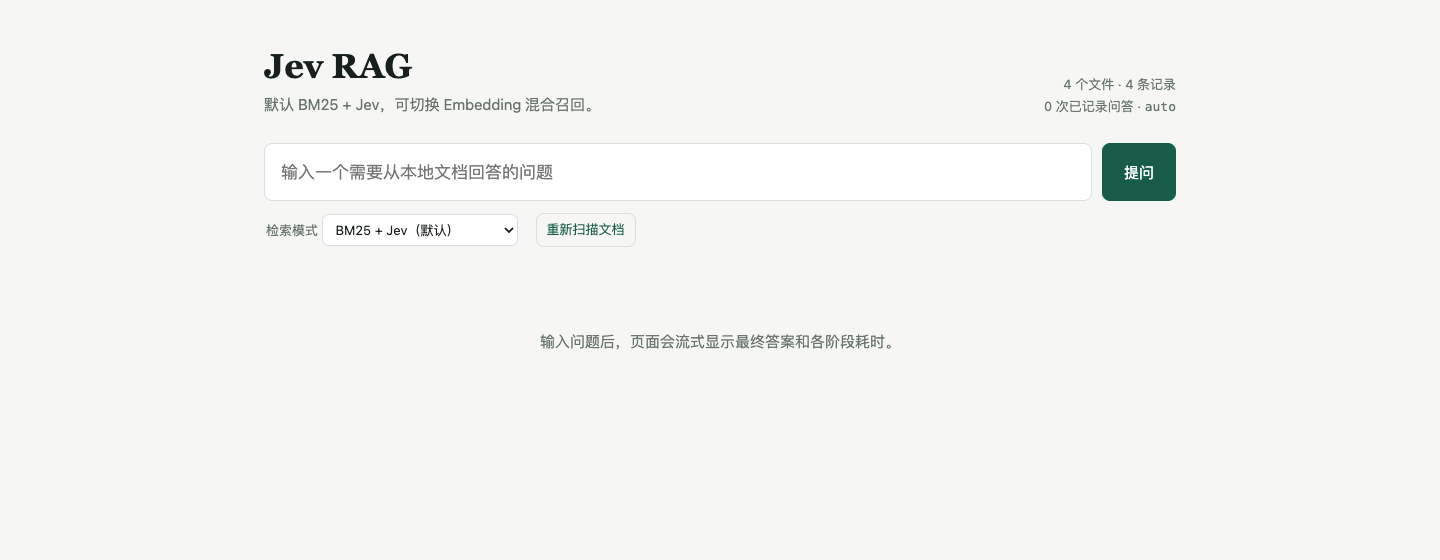
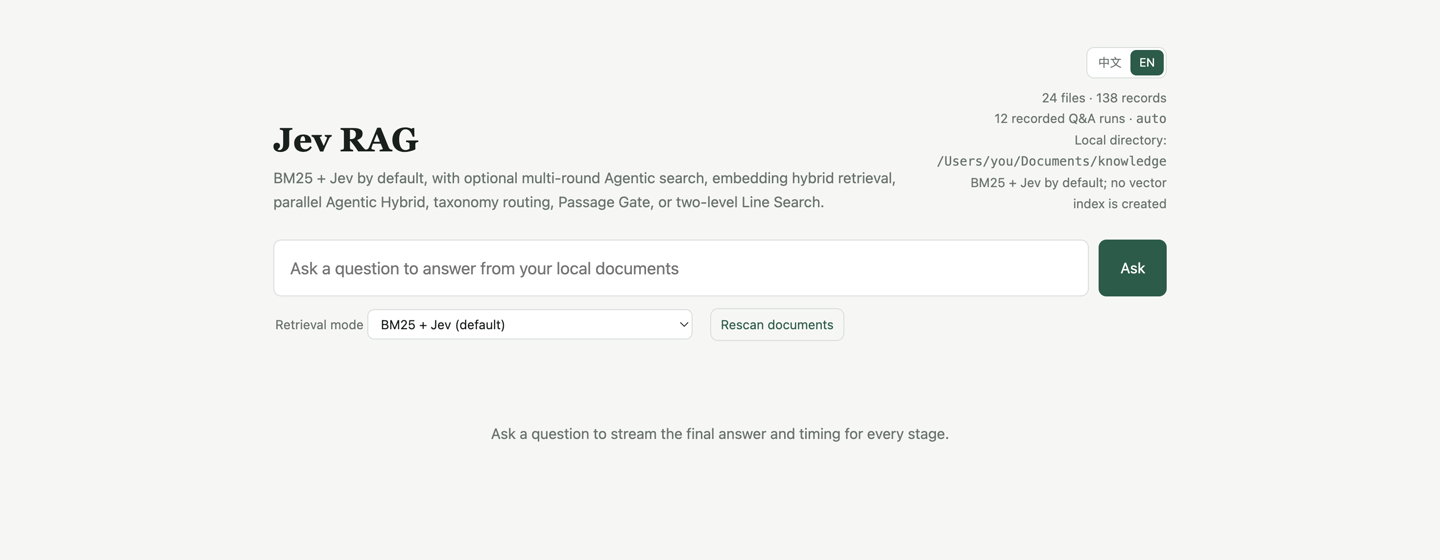
Add bilingual web interface

diff --git a/local_kb.py b/local_kb.py
@@ -1,4 +1,5 @@
 #!/usr/bin/env python3
+# -*- coding: utf-8 -*-
 """Jev RAG: local retrieval, Jev reranking, and grounded answers.
 
 The default pipeline is vector-free SQLite BM25 + Jev. Optional hybrid and
@@ -2819,33 +2820,46 @@ WEB_APP = r"""<!doctype html>
 :root{--ink:#18201d;--muted:#68736e;--line:#d9dfdc;--paper:#f6f7f4;--accent:#165c49;--soft:#e5efe9;--blue:#315d9b}
 *{box-sizing:border-box}body{margin:0;background:var(--paper);color:var(--ink);font:15px/1.65 -apple-system,BlinkMacSystemFont,"Segoe UI","PingFang SC",sans-serif}
 main{max-width:960px;margin:0 auto;padding:48px 24px 80px}header{display:flex;justify-content:space-between;align-items:flex-end;gap:20px;margin-bottom:26px}
-h1{font:600 34px/1.1 Georgia,"Songti SC",serif;margin:0}header p{margin:7px 0 0;color:var(--muted)}#status{text-align:right;color:var(--muted);font-size:13px}
+h1{font:600 34px/1.1 Georgia,"Songti SC",serif;margin:0}header p{margin:7px 0 0;color:var(--muted)}.header-tools{display:flex;flex-direction:column;align-items:flex-end;gap:9px}#status{text-align:right;color:var(--muted);font-size:13px}.language-switch{display:flex;padding:2px;border:1px solid var(--line);border-radius:8px;background:white}.language-switch button{padding:3px 9px;border-radius:6px;background:transparent;color:var(--muted);font-size:12px}.language-switch button.active{background:var(--accent);color:white}
 .search{display:grid;grid-template-columns:1fr auto;gap:10px}.search input{width:100%;font:inherit;font-size:17px;padding:14px 16px;border:1px solid var(--line);border-radius:8px;background:white;outline:none}.search input:focus{border-color:var(--accent);box-shadow:0 0 0 3px #165c4918}
 button{font:inherit;border:0;border-radius:8px;padding:0 22px;background:var(--accent);color:white;cursor:pointer}button:disabled{opacity:.5}.options{display:flex;gap:18px;align-items:center;margin:12px 2px 24px;color:var(--muted);font-size:13px}.options select{font:inherit;color:var(--ink);background:white;border:1px solid var(--line);border-radius:7px;padding:6px 9px}.options button{padding:5px 10px;background:transparent;color:var(--accent);border:1px solid var(--line)}
 .metrics{display:grid;grid-template-columns:repeat(auto-fit,minmax(120px,1fr));gap:8px;margin:16px 0}.metric{background:white;border:1px solid var(--line);border-radius:8px;padding:10px 12px}.metric b{display:block;font-size:18px}.metric span{font-size:11px;color:var(--muted)}
 .panel{background:white;border:1px solid var(--line);border-radius:10px;padding:20px 22px;margin:14px 0}.panel h2{font-size:15px;margin:0 0 12px;color:var(--muted);font-weight:600}.answer{font-size:16px;min-height:42px}.cursor:after{content:'▋';color:var(--accent);animation:blink .8s infinite}@keyframes blink{50%{opacity:0}}
 .summary{color:var(--muted);font-size:13px}.source{padding:13px 0;border-top:1px solid var(--line)}.source:first-child{border-top:0}.source h3{font-size:15px;margin:0 0 3px}.meta{display:flex;flex-wrap:wrap;gap:6px 14px;color:var(--muted);font-size:12px}.score{color:var(--accent);font-weight:650}.snippet{margin:8px 0 0;color:#36423d;max-height:180px;overflow:auto}.empty{padding:42px 0;text-align:center;color:var(--muted)}code{font-family:ui-monospace,SFMono-Regular,Menlo,monospace}.error{color:#9d2b24}
 .rich p{margin:.5em 0}.rich p:first-child,.rich h1:first-child,.rich h2:first-child,.rich h3:first-child,.rich h4:first-child{margin-top:0}.rich p:last-child,.rich ul:last-child,.rich ol:last-child,.rich pre:last-child{margin-bottom:0}.rich h1,.rich h2,.rich h3,.rich h4{font-family:Georgia,"Songti SC",serif;line-height:1.35;color:var(--ink);margin:1em 0 .4em}.rich h1{font-size:1.42em}.rich h2{font-size:1.27em}.rich h3{font-size:1.14em}.rich h4{font-size:1.04em}.rich ul,.rich ol{margin:.45em 0;padding-left:1.55em}.rich li{margin:.16em 0}.rich blockquote{margin:.65em 0;padding:.25em .85em;border-left:3px solid var(--accent);background:var(--soft);color:#43514b}.rich pre{margin:.65em 0;padding:10px 12px;border-radius:7px;background:#18201d;color:#edf3ef;overflow:auto;white-space:pre-wrap}.rich code{padding:.08em .3em;border-radius:4px;background:#edf1ee;font-size:.9em}.rich pre code{padding:0;background:transparent;color:inherit}.rich a{color:var(--blue);text-decoration:none}.rich a:hover{text-decoration:underline}.rich hr{border:0;border-top:1px solid var(--line);margin:.8em 0}.snippet.rich h1,.snippet.rich h2,.snippet.rich h3,.snippet.rich h4{font:650 14px/1.35 -apple-system,BlinkMacSystemFont,"Segoe UI","PingFang SC",sans-serif;margin:.55em 0 .25em}
-@media(max-width:700px){main{padding:28px 16px}.search{grid-template-columns:1fr}.search button{height:48px}header{display:block}#status{text-align:left;margin-top:12px}.metrics{grid-template-columns:repeat(2,1fr)}}
+@media(max-width:700px){main{padding:28px 16px}.search{grid-template-columns:1fr}.search button{height:48px}header{display:block}.header-tools{align-items:flex-start;margin-top:12px}#status{text-align:left}.metrics{grid-template-columns:repeat(2,1fr)}}
 </style></head><body><main>
-<header><div><h1>Jev RAG</h1><p>默认 BM25 + Jev，可切换多轮 Agentic、Embedding 混合召回、并行 Agentic Hybrid、知识分类树、Passage Gate 或两级 Line Search。</p></div><div id="status">读取索引…</div></header>
-<form id="form" class="search"><input id="q" autocomplete="off" placeholder="输入一个需要从本地文档回答的问题"><button id="go">提问</button></form>
-<div class="options"><label>检索模式 <select id="mode"><option value="bm25">BM25 + Jev（默认）</option><option value="agentic">Agentic Search + Jev（无向量）</option><option value="hybrid">BM25 + Embedding + Jev</option><option value="agentic-hybrid">多轮 Agentic + BM25 + Embedding + Jev</option><option value="taxonomy">知识分类树 + Hybrid + Jev</option><option value="hybrid-gate">Hybrid + Unified Jev Passage Gate</option><option value="line-search">两级 Line-by-line Search（Jev）</option></select></label><button id="reindex" type="button">重新扫描文档</button></div>
+<header><div><h1>Jev RAG</h1><p data-i18n="tagline">默认 BM25 + Jev，可切换多轮 Agentic、Embedding 混合召回、并行 Agentic Hybrid、知识分类树、Passage Gate 或两级 Line Search。</p></div><div class="header-tools"><div class="language-switch" role="group" aria-label="Language / 语言"><button type="button" data-language="zh-CN">中文</button><button type="button" data-language="en">EN</button></div><div id="status" data-i18n="loadingIndex">读取索引…</div></div></header>
+<form id="form" class="search"><input id="q" autocomplete="off" data-i18n-placeholder="queryPlaceholder" placeholder="输入一个需要从本地文档回答的问题"><button id="go" data-i18n="ask">提问</button></form>
+<div class="options"><label><span data-i18n="retrievalMode">检索模式</span> <select id="mode"><option value="bm25" data-i18n="modeBm25">BM25 + Jev（默认）</option><option value="agentic" data-i18n="modeAgentic">Agentic Search + Jev（无向量）</option><option value="hybrid" data-i18n="modeHybrid">BM25 + Embedding + Jev</option><option value="agentic-hybrid" data-i18n="modeAgenticHybrid">多轮 Agentic + BM25 + Embedding + Jev</option><option value="taxonomy" data-i18n="modeTaxonomy">知识分类树 + Hybrid + Jev</option><option value="hybrid-gate" data-i18n="modeGate">Hybrid + Unified Jev Passage Gate</option><option value="line-search" data-i18n="modeLineSearch">两级 Line-by-line Search（Jev）</option></select></label><button id="reindex" type="button" data-i18n="reindex">重新扫描文档</button></div>
 <div id="metrics" class="metrics" hidden></div><div id="summary" class="summary"></div>
-<section id="answerPanel" class="panel" hidden><h2>MiniMax 回答</h2><div id="answer" class="answer"></div></section>
-<section id="sourcesPanel" class="panel" hidden><h2>检索证据</h2><div id="sources"></div></section>
-<div id="empty" class="empty">输入问题后，页面会流式显示最终答案和各阶段耗时。</div>
+<section id="answerPanel" class="panel" hidden><h2 data-i18n="answerTitle">MiniMax 回答</h2><div id="answer" class="answer"></div></section>
+<section id="sourcesPanel" class="panel" hidden><h2 data-i18n="evidenceTitle">检索证据</h2><div id="sources"></div></section>
+<div id="empty" class="empty" data-i18n="empty">输入问题后，页面会流式显示最终答案和各阶段耗时。</div>
 </main><script>
 const $=s=>document.querySelector(s);const esc=s=>(s??'').toString().replace(/[&<>"']/g,c=>({'&':'&amp;','<':'&lt;','>':'&gt;','"':'&quot;',"'":'&#39;'}[c]));
+const I18N={
+'zh-CN':{tagline:'默认 BM25 + Jev，可切换多轮 Agentic、Embedding 混合召回、并行 Agentic Hybrid、知识分类树、Passage Gate 或两级 Line Search。',loadingIndex:'读取索引…',queryPlaceholder:'输入一个需要从本地文档回答的问题',ask:'提问',retrievalMode:'检索模式',modeBm25:'BM25 + Jev（默认）',modeAgentic:'Agentic Search + Jev（无向量）',modeHybrid:'BM25 + Embedding + Jev',modeAgenticHybrid:'多轮 Agentic + BM25 + Embedding + Jev',modeTaxonomy:'知识分类树 + Hybrid + Jev',modeGate:'Hybrid + Unified Jev Passage Gate',modeLineSearch:'两级 Line-by-line Search（Jev）',reindex:'重新扫描文档',answerTitle:'MiniMax 回答',evidenceTitle:'检索证据',empty:'输入问题后，页面会流式显示最终答案和各阶段耗时。',files:'个文件',records:'条记录',runs:'次已记录问答',localDirectory:'本地目录',defaultPipeline:'默认 BM25 + Jev，不建立向量索引',taxonomyMetric:'知识分类路由',firstTokenMetric:'端到端首 token',generationMetric:'MiniMax 完成',totalMetric:'端到端总时长',window:'窗口',exists:'存在',withinPassage:'段内',global:'全局',originalBm25:'原始 BM25',bestLexical:'最佳词检索',taxonomyExpansion:'分类扩展',withinNode:'节点内',newCandidate:'新增候选',category:'分类',relevance:'相关',evidence:'证据',contradiction:'矛盾',injection:'注入',answering:'回答中…',initialRetrieval:'正在执行 BM25 召回…',questionFailed:'问答失败',answerFailed:'未能生成答案。',run:'记录',candidates:'候选',items:'条',evidenceCount:'证据',scanning:'扫描中…',complete:'完成',failed:'失败',cacheHit:'（命中缓存）',stageHybridStart:'正在执行 BM25 + Embedding 召回并做 RRF 融合…',stageAgenticHybridStart:'正在并行执行两轮 Agentic、BM25 与 Embedding…',stageAgenticStart:'正在执行两轮 Agentic 本地检索…',stageLineStart:'正在执行两级 Jev Line-by-line Search…',stageBm25Start:'正在执行 BM25 召回…',located:'已定位',recalled:'已召回',generating:'正在生成答案…',passageGate:'正在进行统一 Passage Gate…',reranking:'正在进行 Jev 重排…',lineDone:'两级 Line Search 完成',gateDone:'Passage Gate 完成',jevDone:'Jev 重排完成',retrievalDone:'检索完成',minimaxGenerating:'MiniMax 正在生成答案…',firstToken:'MiniMax 已输出首个 token，正在继续生成…'},
+'en':{tagline:'BM25 + Jev by default, with optional multi-round Agentic search, embedding hybrid retrieval, parallel Agentic Hybrid, taxonomy routing, Passage Gate, or two-level Line Search.',loadingIndex:'Loading index…',queryPlaceholder:'Ask a question to answer from your local documents',ask:'Ask',retrievalMode:'Retrieval mode',modeBm25:'BM25 + Jev (default)',modeAgentic:'Agentic Search + Jev (no vectors)',modeHybrid:'BM25 + Embedding + Jev',modeAgenticHybrid:'Multi-round Agentic + BM25 + Embedding + Jev',modeTaxonomy:'Knowledge Taxonomy + Hybrid + Jev',modeGate:'Hybrid + Unified Jev Passage Gate',modeLineSearch:'Two-level Line-by-line Search (Jev)',reindex:'Rescan documents',answerTitle:'MiniMax answer',evidenceTitle:'Retrieved evidence',empty:'Ask a question to stream the final answer and timing for every stage.',files:'files',records:'records',runs:'recorded Q&A runs',localDirectory:'Local directory',defaultPipeline:'BM25 + Jev by default; no vector index is created',taxonomyMetric:'Taxonomy routing',firstTokenMetric:'End-to-end first token',generationMetric:'MiniMax complete',totalMetric:'End-to-end total',window:'Window',exists:'exists',withinPassage:'passage rank',global:'global',originalBm25:'Original BM25',bestLexical:'Best lexical query',taxonomyExpansion:'Taxonomy expansion',withinNode:'node rank',newCandidate:'new candidate',category:'Category',relevance:'relevance',evidence:'evidence',contradiction:'contradiction',injection:'injection',answering:'Answering…',initialRetrieval:'Running BM25 retrieval…',questionFailed:'Question answering failed',answerFailed:'Unable to generate an answer.',run:'Run',candidates:'candidates',items:'items',evidenceCount:'evidence',scanning:'Scanning…',complete:'Complete',failed:'Failed',cacheHit:' (cache hit)',stageHybridStart:'Running BM25 + Embedding retrieval with RRF fusion…',stageAgenticHybridStart:'Running two Agentic rounds, BM25, and Embedding in parallel…',stageAgenticStart:'Running two-round local Agentic search…',stageLineStart:'Running two-level Jev Line-by-line Search…',stageBm25Start:'Running BM25 retrieval…',located:'located',recalled:'recalled',generating:'generating the answer…',passageGate:'running the unified Passage Gate…',reranking:'running Jev reranking…',lineDone:'Two-level Line Search complete',gateDone:'Passage Gate complete',jevDone:'Jev reranking complete',retrievalDone:'Retrieval complete',minimaxGenerating:'MiniMax is generating the answer…',firstToken:'MiniMax returned the first token and is continuing…'}
+};
+const languageKey='jev-rag-language';let currentLanguage;try{currentLanguage=localStorage.getItem(languageKey)}catch(_e){}if(!I18N[currentLanguage])currentLanguage=(navigator.language||'').toLowerCase().startsWith('zh')?'zh-CN':'en';
+const t=(key,vars={})=>{let value=(I18N[currentLanguage]&&I18N[currentLanguage][key])||I18N.en[key]||key;return Object.entries(vars).reduce((text,[name,replacement])=>text.replaceAll(`{${name}}`,replacement),value)};
 const fmt=v=>v===null||v===undefined?'—':`${Math.round(v)} ms`;
 function markdownInline(raw){let s=esc(raw),slots=[];s=s.replace(/`([^`\n]+)`/g,(_,v)=>`\u0000${slots.push(`<code>${v}</code>`)-1}\u0000`);s=s.replace(/\[([^\]]+)\]\((https?:\/\/[^\s)]+)\)/g,'<a href="$2" target="_blank" rel="noopener noreferrer">$1</a>');s=s.replace(/\*\*([^*\n]+)\*\*/g,'<strong>$1</strong>').replace(/__([^_\n]+)__/g,'<strong>$1</strong>').replace(/~~([^~\n]+)~~/g,'<del>$1</del>');s=s.replace(/(^|[^*])\*([^*\n]+)\*(?!\*)/g,'$1<em>$2</em>');return s.replace(/\u0000(\d+)\u0000/g,(_,i)=>slots[Number(i)]||'')}
 function renderMarkdown(value){const lines=(value??'').toString().replace(/\r\n?/g,'\n').split('\n'),out=[];let paragraph=[],list='',items=[],code=null;const flushParagraph=()=>{if(paragraph.length){out.push(`<p>${paragraph.map(markdownInline).join('<br>')}</p>`);paragraph=[]}};const flushList=()=>{if(list){out.push(`<${list}>${items.map(x=>`<li>${markdownInline(x)}</li>`).join('')}</${list}>`);list='';items=[]}};const flushAll=()=>{flushParagraph();flushList()};for(const line of lines){if(/^\s*```/.test(line)){if(code===null){flushAll();code=[]}else{out.push(`<pre><code>${esc(code.join('\n'))}</code></pre>`);code=null}continue}if(code!==null){code.push(line);continue}if(!line.trim()){flushAll();continue}let m;if((m=line.match(/^\s*(#{1,6})\s+(.+)$/))){flushAll();const level=Math.min(m[1].length,4);out.push(`<h${level}>${markdownInline(m[2])}</h${level}>`);continue}if(/^\s*(?:---+|___+|\*\*\*+)\s*$/.test(line)){flushAll();out.push('<hr>');continue}if((m=line.match(/^\s*>\s?(.*)$/))){flushAll();out.push(`<blockquote>${markdownInline(m[1])}</blockquote>`);continue}if((m=line.match(/^\s*[-+*]\s+(.+)$/))){flushParagraph();if(list&&list!=='ul')flushList();list='ul';items.push(m[1]);continue}if((m=line.match(/^\s*\d+[.)]\s+(.+)$/))){flushParagraph();if(list&&list!=='ol')flushList();list='ol';items.push(m[1]);continue}flushList();paragraph.push(line)}if(code!==null)out.push(`<pre><code>${esc(code.join('\n'))}</code></pre>`);flushAll();return out.join('')}
-let modeInitialized=false;async function status(){const r=await fetch('/api/status');const d=await r.json();if(!modeInitialized&&d.default_retrieval_mode){$('#mode').value=d.default_retrieval_mode;modeInitialized=true}$('#status').innerHTML=`${d.documents} 个文件 · ${d.passages} 条记录<br>${d.answer_runs} 次已记录问答 · <code>${esc(d.chunking)}</code><br>本地目录：<code>${esc(d.documents_root)}</code><br>默认 BM25 + Jev，不建立向量索引`};
-function showMetrics(m={}){const items=[['BM25',m.lexical_ms],['Agentic Search',m.agentic_ms],['Embedding / RRF',m.embedding_ms],['知识分类路由',m.taxonomy_ms],['Two-level Line Search',m.line_search_ms],['Jev / Passage Gate',m.jev_ms],['端到端首 token',m.client_first_token_ms??m.first_token_ms],['MiniMax 完成',m.generation_ms],['端到端总时长',m.client_total_ms??m.total_ms]];$('#metrics').hidden=false;$('#metrics').innerHTML=items.map(([k,v])=>`<div class="metric"><b>${fmt(v)}</b><span>${k}</span></div>`).join('')}
-function showSources(xs){$('#sourcesPanel').hidden=!xs.length;$('#sources').innerHTML=xs.map((x,i)=>{let ranks;if(x.line_search_score!==undefined){ranks=`<span>Line #${x.retrieval_rank}</span><span>窗口 ${esc(x.line_window_id)} · 存在 ${(x.line_exists*100).toFixed(0)}%</span><span>段内 #${x.line_rank} · ${(x.line_probability*100).toFixed(1)}%</span><span>全局 ${(x.line_final_probability*100).toFixed(1)}%</span>`}else if(x.agentic_hybrid_rrf_score!==undefined){ranks=`<span>Agentic Hybrid #${x.retrieval_rank}</span><span>Agentic ${x.agentic_rank!==undefined?'#'+x.agentic_rank:'—'}</span><span>Vector ${x.vector_rank!==undefined?'#'+x.vector_rank:'—'}</span>`}else if(x.agentic_rrf_score!==undefined){ranks=`<span>Agentic RRF #${x.retrieval_rank}</span><span>原始 BM25 ${x.original_bm25_rank!==undefined?'#'+x.original_bm25_rank:'—'}</span><span>最佳词检索 #${x.agentic_best_rank}</span>`}else if(x.taxonomy_rank!==undefined){ranks=`<span>分类扩展 #${x.retrieval_rank}</span><span>节点内 #${x.taxonomy_rank}</span><span>全库 ${x.global_rank!=null?'#'+x.global_rank:'新增候选'}</span>`}else if(x.rrf_score!==undefined){ranks=`<span>RRF #${x.retrieval_rank}</span><span>BM25 ${x.bm25_rank!==undefined?'#'+x.bm25_rank:'—'}</span><span>Vector ${x.vector_rank!==undefined?'#'+x.vector_rank:'—'}</span>`}else{ranks=`<span>BM25 #${x.bm25_rank}</span>`}const taxonomy=x.taxonomy_nodes?.length?`<span class="score">分类 ${x.taxonomy_nodes.map(esc).join(' / ')}</span>`:'';const gate=x.gate_route?`<span class="score">Gate ${esc(x.gate_route)}</span><span>相关 ${(x.gate_relevance*100).toFixed(0)}% · 证据 ${(x.gate_evidence*100).toFixed(0)}% · 矛盾 ${(x.gate_contradiction*100).toFixed(0)}% · 注入 ${(x.gate_injection*100).toFixed(0)}%</span>`:(x.jev_score!==undefined?`<span class="score">Jev ${(x.jev_score*100).toFixed(0)}%</span>`:'');return `<div class="source"><h3>[${i+1}] ${esc(x.title)}</h3><div class="meta"><span>${esc(x.path)}:${x.start_line}-${x.end_line}</span>${ranks}${taxonomy}${gate}</div><div class="snippet rich">${renderMarkdown(x.snippet)}</div></div>`}).join('')}
-$('#form').onsubmit=async e=>{e.preventDefault();const q=$('#q').value.trim();if(!q)return;const clientStart=performance.now();let firstClient=null,answer='',metrics={};$('#go').disabled=true;$('#go').textContent='回答中…';$('#empty').hidden=true;$('#answerPanel').hidden=false;$('#sourcesPanel').hidden=true;$('#answer').textContent='';$('#answer').classList.add('cursor');$('#summary').textContent='正在执行 BM25 召回…';showMetrics(metrics);
-try{const r=await fetch('/api/answer',{method:'POST',headers:{'content-type':'application/json'},body:JSON.stringify({query:q,retrieval_mode:$('#mode').value,use_jev:true})});if(!r.ok){const d=await r.json();throw new Error(d.error||'问答失败')}const reader=r.body.getReader(),decoder=new TextDecoder();let buffer='';while(true){const {value,done}=await reader.read();if(done)break;buffer+=decoder.decode(value,{stream:true});const lines=buffer.split('\n');buffer=lines.pop();for(const line of lines){if(!line.trim())continue;const ev=JSON.parse(line);if(ev.type==='stage'){Object.assign(metrics,ev.metrics);$('#summary').textContent=ev.message;showMetrics(metrics)}else if(ev.type==='sources'){showSources(ev.results)}else if(ev.type==='delta'){if(firstClient===null)firstClient=performance.now()-clientStart;answer+=ev.text;$('#answer').innerHTML=renderMarkdown(answer);$('#answer').classList.add('rich')}else if(ev.type==='done'){metrics={...metrics,...ev.metrics,client_first_token_ms:firstClient,client_total_ms:performance.now()-clientStart};showMetrics(metrics);const labels={bm25:'BM25',agentic:'Agentic Search',hybrid:'混合检索','agentic-hybrid':'多轮 Agentic Hybrid',taxonomy:'知识分类树','hybrid-gate':'Hybrid + Passage Gate','line-search':'两级 Line Search'};const mode=labels[ev.retrieval_mode]||ev.retrieval_mode;$('#summary').textContent=`记录 #${ev.run_id} · ${mode}${['line-search','hybrid-gate'].includes(ev.retrieval_mode)?'':' + Jev'} · ${ev.model} · 候选 ${ev.candidate_count} 条 · 证据 ${ev.returned_count} 条${ev.cost!=null?` · $${Number(ev.cost).toFixed(6)}`:''}`}else if(ev.type==='error'){throw new Error(ev.error)}}}}catch(e){$('#summary').innerHTML=`<span class="error">${esc(e.message)}</span>`;if(!answer)$('#answer').textContent='未能生成答案。'}finally{$('#answer').classList.remove('cursor');$('#go').disabled=false;$('#go').textContent='提问';status()}};
-$('#reindex').onclick=async()=>{const b=$('#reindex');b.disabled=true;b.textContent='扫描中…';try{const r=await fetch('/api/index',{method:'POST'});const d=await r.json();if(!r.ok)throw new Error(d.error);await status();b.textContent=`完成：${d.documents} 个文件`;}catch(e){b.textContent='失败：'+e.message}setTimeout(()=>{b.disabled=false;b.textContent='重新扫描文档'},2500)};status();
+let modeInitialized=false,lastStatus=null,lastMetrics={},lastSources=[],lastSummaryEvent=null;
+function renderStatus(d){if(!d)return;$('#status').innerHTML=`${d.documents} ${t('files')} · ${d.passages} ${t('records')}<br>${d.answer_runs} ${t('runs')} · <code>${esc(d.chunking)}</code><br>${t('localDirectory')}: <code>${esc(d.documents_root)}</code><br>${t('defaultPipeline')}`}
+async function status(){const r=await fetch('/api/status');const d=await r.json();lastStatus=d;if(!modeInitialized&&d.default_retrieval_mode){$('#mode').value=d.default_retrieval_mode;modeInitialized=true}renderStatus(d)}
+function showMetrics(m={}){lastMetrics=m;const items=[['BM25',m.lexical_ms],['Agentic Search',m.agentic_ms],['Embedding / RRF',m.embedding_ms],[t('taxonomyMetric'),m.taxonomy_ms],['Two-level Line Search',m.line_search_ms],['Jev / Passage Gate',m.jev_ms],[t('firstTokenMetric'),m.client_first_token_ms??m.first_token_ms],[t('generationMetric'),m.generation_ms],[t('totalMetric'),m.client_total_ms??m.total_ms]];$('#metrics').hidden=false;$('#metrics').innerHTML=items.map(([k,v])=>`<div class="metric"><b>${fmt(v)}</b><span>${k}</span></div>`).join('')}
+function showSources(xs){lastSources=xs;$('#sourcesPanel').hidden=!xs.length;$('#sources').innerHTML=xs.map((x,i)=>{let ranks;if(x.line_search_score!==undefined){ranks=`<span>Line #${x.retrieval_rank}</span><span>${t('window')} ${esc(x.line_window_id)} · ${t('exists')} ${(x.line_exists*100).toFixed(0)}%</span><span>${t('withinPassage')} #${x.line_rank} · ${(x.line_probability*100).toFixed(1)}%</span><span>${t('global')} ${(x.line_final_probability*100).toFixed(1)}%</span>`}else if(x.agentic_hybrid_rrf_score!==undefined){ranks=`<span>Agentic Hybrid #${x.retrieval_rank}</span><span>Agentic ${x.agentic_rank!==undefined?'#'+x.agentic_rank:'—'}</span><span>Vector ${x.vector_rank!==undefined?'#'+x.vector_rank:'—'}</span>`}else if(x.agentic_rrf_score!==undefined){ranks=`<span>Agentic RRF #${x.retrieval_rank}</span><span>${t('originalBm25')} ${x.original_bm25_rank!==undefined?'#'+x.original_bm25_rank:'—'}</span><span>${t('bestLexical')} #${x.agentic_best_rank}</span>`}else if(x.taxonomy_rank!==undefined){ranks=`<span>${t('taxonomyExpansion')} #${x.retrieval_rank}</span><span>${t('withinNode')} #${x.taxonomy_rank}</span><span>${t('global')} ${x.global_rank!=null?'#'+x.global_rank:t('newCandidate')}</span>`}else if(x.rrf_score!==undefined){ranks=`<span>RRF #${x.retrieval_rank}</span><span>BM25 ${x.bm25_rank!==undefined?'#'+x.bm25_rank:'—'}</span><span>Vector ${x.vector_rank!==undefined?'#'+x.vector_rank:'—'}</span>`}else{ranks=`<span>BM25 #${x.bm25_rank}</span>`}const taxonomy=x.taxonomy_nodes?.length?`<span class="score">${t('category')} ${x.taxonomy_nodes.map(esc).join(' / ')}</span>`:'';const gate=x.gate_route?`<span class="score">Gate ${esc(x.gate_route)}</span><span>${t('relevance')} ${(x.gate_relevance*100).toFixed(0)}% · ${t('evidence')} ${(x.gate_evidence*100).toFixed(0)}% · ${t('contradiction')} ${(x.gate_contradiction*100).toFixed(0)}% · ${t('injection')} ${(x.gate_injection*100).toFixed(0)}%</span>`:(x.jev_score!==undefined?`<span class="score">Jev ${(x.jev_score*100).toFixed(0)}%</span>`:'');return `<div class="source"><h3>[${i+1}] ${esc(x.title)}</h3><div class="meta"><span>${esc(x.path)}:${x.start_line}-${x.end_line}</span>${ranks}${taxonomy}${gate}</div><div class="snippet rich">${renderMarkdown(x.snippet)}</div></div>`}).join('')}
+function stageMessage(ev){if(!ev.stage)return ev.message;const count=ev.candidate_count??0,mode=modeLabel(ev.retrieval_mode),cache=ev.cache_hit?t('cacheHit'):'',separator=currentLanguage==='zh-CN'?'，':', ';if(ev.stage==='retrieval_started')return t({hybrid:'stageHybridStart','hybrid-gate':'stageHybridStart',taxonomy:'stageHybridStart','agentic-hybrid':'stageAgenticHybridStart',agentic:'stageAgenticStart','line-search':'stageLineStart',bm25:'stageBm25Start'}[ev.retrieval_mode]||'stageBm25Start');if(ev.stage==='candidates_ready'){if(ev.retrieval_mode==='line-search')return `${mode} ${t('located')} ${count} ${t('items')}${separator}${t('generating')}`;if(ev.retrieval_mode==='hybrid-gate')return `${mode} ${t('recalled')} ${count} ${t('items')}${separator}${t('passageGate')}`;if(ev.use_jev)return `${mode} ${t('recalled')} ${count} ${t('items')}${separator}${t('reranking')}`;return `${mode} ${t('recalled')} ${count} ${t('items')}…`}if(ev.stage==='generation_started'){const done=ev.retrieval_mode==='line-search'?t('lineDone'):ev.retrieval_mode==='hybrid-gate'?t('gateDone'):ev.use_jev?t('jevDone'):t('retrievalDone');return `${done}${cache}${separator}${t('minimaxGenerating')}`}if(ev.stage==='first_token')return t('firstToken');return ev.message}
+function modeLabel(mode){const labels=currentLanguage==='zh-CN'?{bm25:'BM25',agentic:'Agentic Search',hybrid:'混合检索','agentic-hybrid':'多轮 Agentic Hybrid',taxonomy:'知识分类树','hybrid-gate':'Hybrid + Passage Gate','line-search':'两级 Line Search'}:{bm25:'BM25',agentic:'Agentic Search',hybrid:'Hybrid retrieval','agentic-hybrid':'Multi-round Agentic Hybrid',taxonomy:'Knowledge Taxonomy','hybrid-gate':'Hybrid + Passage Gate','line-search':'Two-level Line Search'};return labels[mode]||mode}
+function doneSummary(ev){const mode=modeLabel(ev.retrieval_mode);return `${t('run')} #${ev.run_id} · ${mode}${['line-search','hybrid-gate'].includes(ev.retrieval_mode)?'':' + Jev'} · ${ev.model} · ${t('candidates')} ${ev.candidate_count} ${t('items')} · ${t('evidenceCount')} ${ev.returned_count} ${t('items')}${ev.cost!=null?` · $${Number(ev.cost).toFixed(6)}`:''}`}
+function applyLanguage(language){currentLanguage=I18N[language]?language:'en';document.documentElement.lang=currentLanguage;try{localStorage.setItem(languageKey,currentLanguage)}catch(_e){}document.querySelectorAll('[data-i18n]').forEach(el=>{el.textContent=t(el.dataset.i18n)});document.querySelectorAll('[data-i18n-placeholder]').forEach(el=>{el.placeholder=t(el.dataset.i18nPlaceholder)});document.querySelectorAll('[data-language]').forEach(el=>{const active=el.dataset.language===currentLanguage;el.classList.toggle('active',active);el.setAttribute('aria-pressed',active?'true':'false')});renderStatus(lastStatus);if(!$('#metrics').hidden)showMetrics(lastMetrics);if(lastSources.length)showSources(lastSources);if(lastSummaryEvent?.type==='initial')$('#summary').textContent=t('initialRetrieval');else if(lastSummaryEvent?.type==='stage')$('#summary').textContent=stageMessage(lastSummaryEvent);else if(lastSummaryEvent?.type==='done')$('#summary').textContent=doneSummary(lastSummaryEvent)}
+document.querySelectorAll('[data-language]').forEach(button=>button.onclick=()=>applyLanguage(button.dataset.language));applyLanguage(currentLanguage);
+$('#form').onsubmit=async e=>{e.preventDefault();const q=$('#q').value.trim();if(!q)return;const clientStart=performance.now();let firstClient=null,answer='',metrics={};$('#go').disabled=true;$('#go').textContent=t('answering');$('#empty').hidden=true;$('#answerPanel').hidden=false;$('#sourcesPanel').hidden=true;$('#answer').textContent='';$('#answer').classList.add('cursor');lastSummaryEvent={type:'initial'};$('#summary').textContent=t('initialRetrieval');showMetrics(metrics);
+try{const r=await fetch('/api/answer',{method:'POST',headers:{'content-type':'application/json'},body:JSON.stringify({query:q,retrieval_mode:$('#mode').value,use_jev:true,ui_language:currentLanguage})});if(!r.ok){const d=await r.json();throw new Error(d.error||t('questionFailed'))}const reader=r.body.getReader(),decoder=new TextDecoder();let buffer='';while(true){const {value,done}=await reader.read();if(done)break;buffer+=decoder.decode(value,{stream:true});const lines=buffer.split('\n');buffer=lines.pop();for(const line of lines){if(!line.trim())continue;const ev=JSON.parse(line);if(ev.type==='stage'){lastSummaryEvent=ev;Object.assign(metrics,ev.metrics);$('#summary').textContent=stageMessage(ev);showMetrics(metrics)}else if(ev.type==='sources'){showSources(ev.results)}else if(ev.type==='delta'){if(firstClient===null)firstClient=performance.now()-clientStart;answer+=ev.text;$('#answer').innerHTML=renderMarkdown(answer);$('#answer').classList.add('rich')}else if(ev.type==='done'){lastSummaryEvent=ev;metrics={...metrics,...ev.metrics,client_first_token_ms:firstClient,client_total_ms:performance.now()-clientStart};showMetrics(metrics);$('#summary').textContent=doneSummary(ev)}else if(ev.type==='error'){throw new Error(ev.error)}}}}catch(e){lastSummaryEvent=null;$('#summary').innerHTML=`<span class="error">${esc(e.message)}</span>`;if(!answer)$('#answer').textContent=t('answerFailed')}finally{$('#answer').classList.remove('cursor');$('#go').disabled=false;$('#go').textContent=t('ask');status()}};
+$('#reindex').onclick=async()=>{const b=$('#reindex');b.disabled=true;b.textContent=t('scanning');try{const r=await fetch('/api/index',{method:'POST'});const d=await r.json();if(!r.ok)throw new Error(d.error);await status();b.textContent=`${t('complete')}: ${d.documents} ${t('files')}`;}catch(e){b.textContent=`${t('failed')}: ${e.message}`}setTimeout(()=>{b.disabled=false;b.textContent=t('reindex')},2500)};status();
 </script></body></html>"""
 
 
@@ -2919,6 +2933,8 @@ class AppHandler(BaseHTTPRequestHandler):
             self._stream_event(
                 {
                     "type": "stage",
+                    "stage": "retrieval_started",
+                    "retrieval_mode": retrieval_mode,
                     "message": (
                         "正在执行 BM25 + Embedding 召回并做 RRF 融合…"
                         if retrieval_mode in {"hybrid", "hybrid-gate", "taxonomy"}
@@ -2970,6 +2986,10 @@ class AppHandler(BaseHTTPRequestHandler):
             self._stream_event(
                 {
                     "type": "stage",
+                    "stage": "candidates_ready",
+                    "retrieval_mode": retrieval_mode,
+                    "candidate_count": len(candidates),
+                    "use_jev": use_jev,
                     "message": (
                         f"{retrieval_label} 已定位 {len(candidates)} 条候选，正在生成答案…"
                         if retrieval_mode == "line-search"
@@ -3073,6 +3093,10 @@ class AppHandler(BaseHTTPRequestHandler):
             self._stream_event(
                 {
                     "type": "stage",
+                    "stage": "generation_started",
+                    "retrieval_mode": retrieval_mode,
+                    "use_jev": use_jev,
+                    "cache_hit": bool(jev_meta.get("cache_hit")),
                     "message": (
                         f"两级 Line Search 完成{cache_note}，MiniMax 正在生成答案…"
                         if retrieval_mode == "line-search"
@@ -3109,6 +3133,8 @@ class AppHandler(BaseHTTPRequestHandler):
                         self._stream_event(
                             {
                                 "type": "stage",
+                                "stage": "first_token",
+                                "retrieval_mode": retrieval_mode,
                                 "message": "MiniMax 已输出首个 token，正在继续生成…",
                                 "metrics": {
                                     "lexical_ms": lexical_ms,

diff --git a/tests/test_local_kb.py b/tests/test_local_kb.py
@@ -149,6 +149,21 @@ class PassageTests(unittest.TestCase):
 
 
 class WebAppTests(unittest.TestCase):
+    def test_web_app_supports_persisted_chinese_and_english_ui(self):
+        self.assertIn('data-language="zh-CN"', WEB_APP)
+        self.assertIn('data-language="en"', WEB_APP)
+        self.assertIn("const languageKey='jev-rag-language'", WEB_APP)
+        self.assertIn("localStorage.setItem(languageKey,currentLanguage)", WEB_APP)
+        self.assertIn("document.documentElement.lang=currentLanguage", WEB_APP)
+        self.assertIn("'en':{tagline:", WEB_APP)
+
+    def test_streaming_stage_messages_are_localized_by_stable_stage_code(self):
+        self.assertIn("function stageMessage(ev)", WEB_APP)
+        self.assertIn("ev.stage==='retrieval_started'", WEB_APP)
+        self.assertIn("ev.stage==='candidates_ready'", WEB_APP)
+        self.assertIn("ev.stage==='generation_started'", WEB_APP)
+        self.assertIn("ev.stage==='first_token'", WEB_APP)
+
     def test_retrieval_snippets_render_markdown(self):
         self.assertIn('class="snippet rich"', WEB_APP)
         self.assertIn("renderMarkdown(x.snippet)", WEB_APP)
